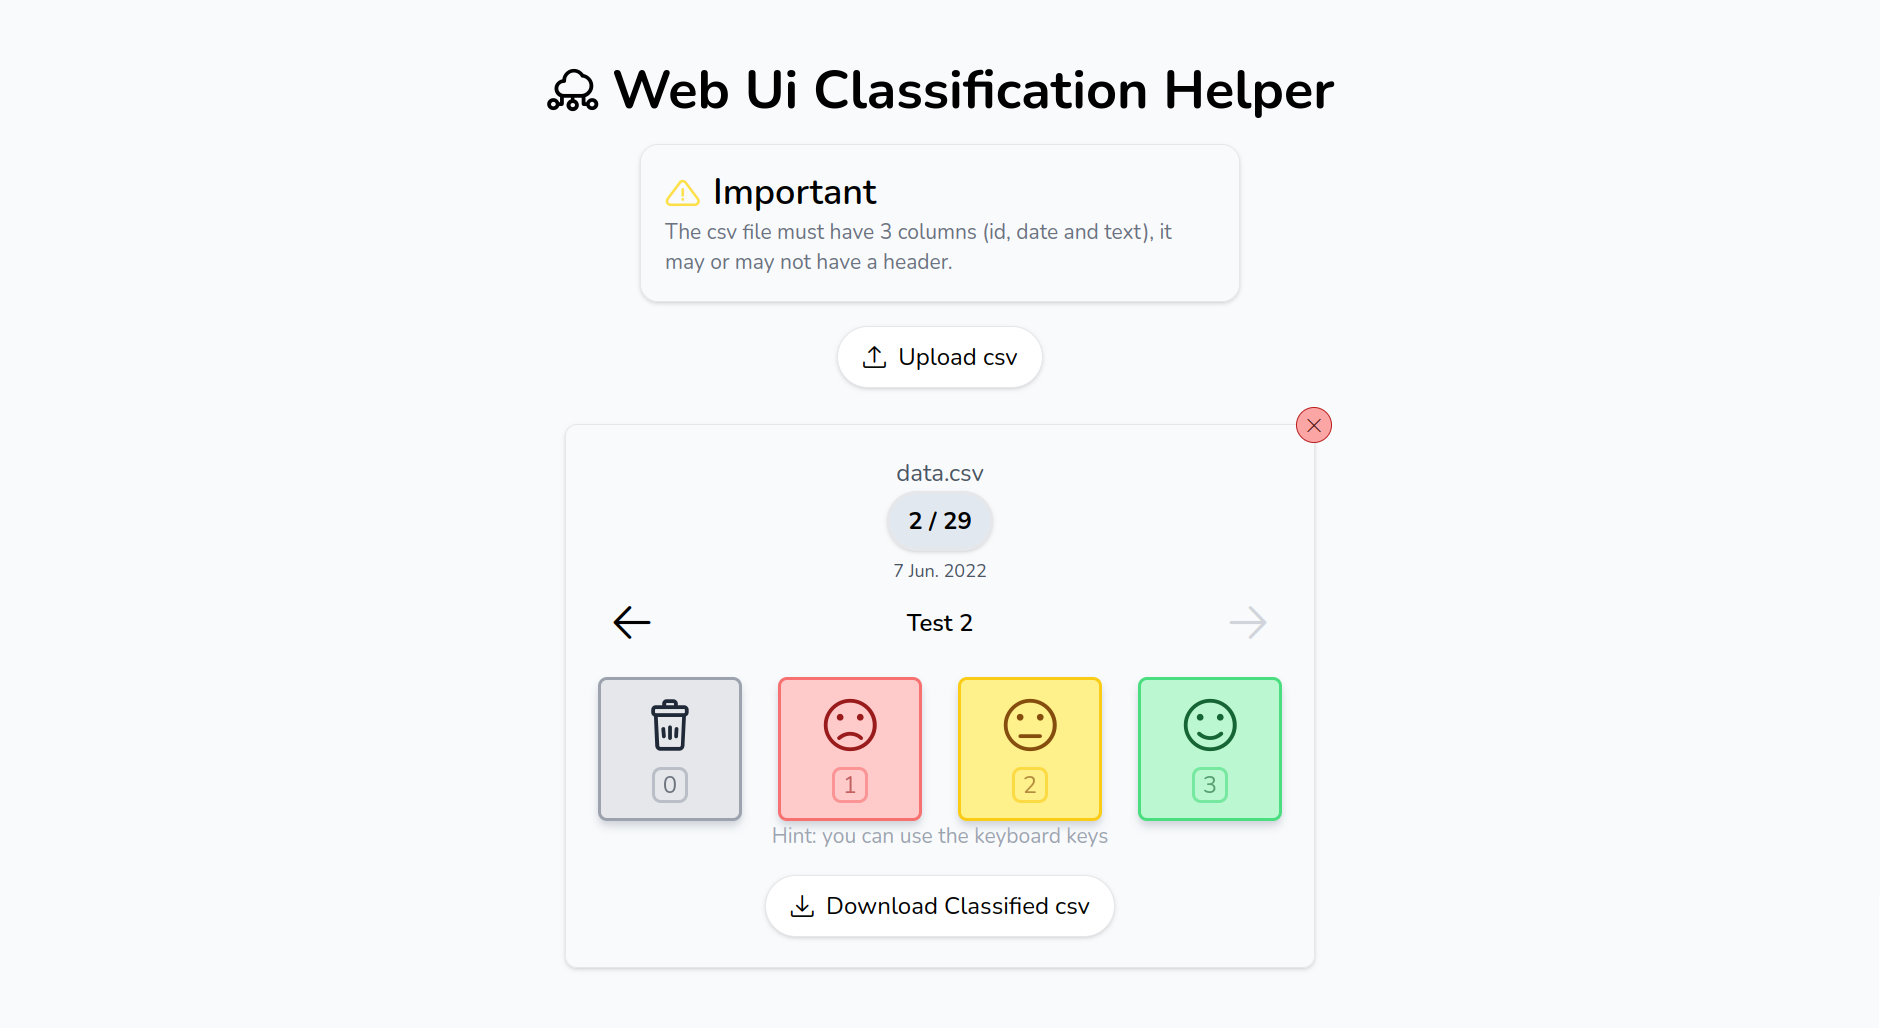
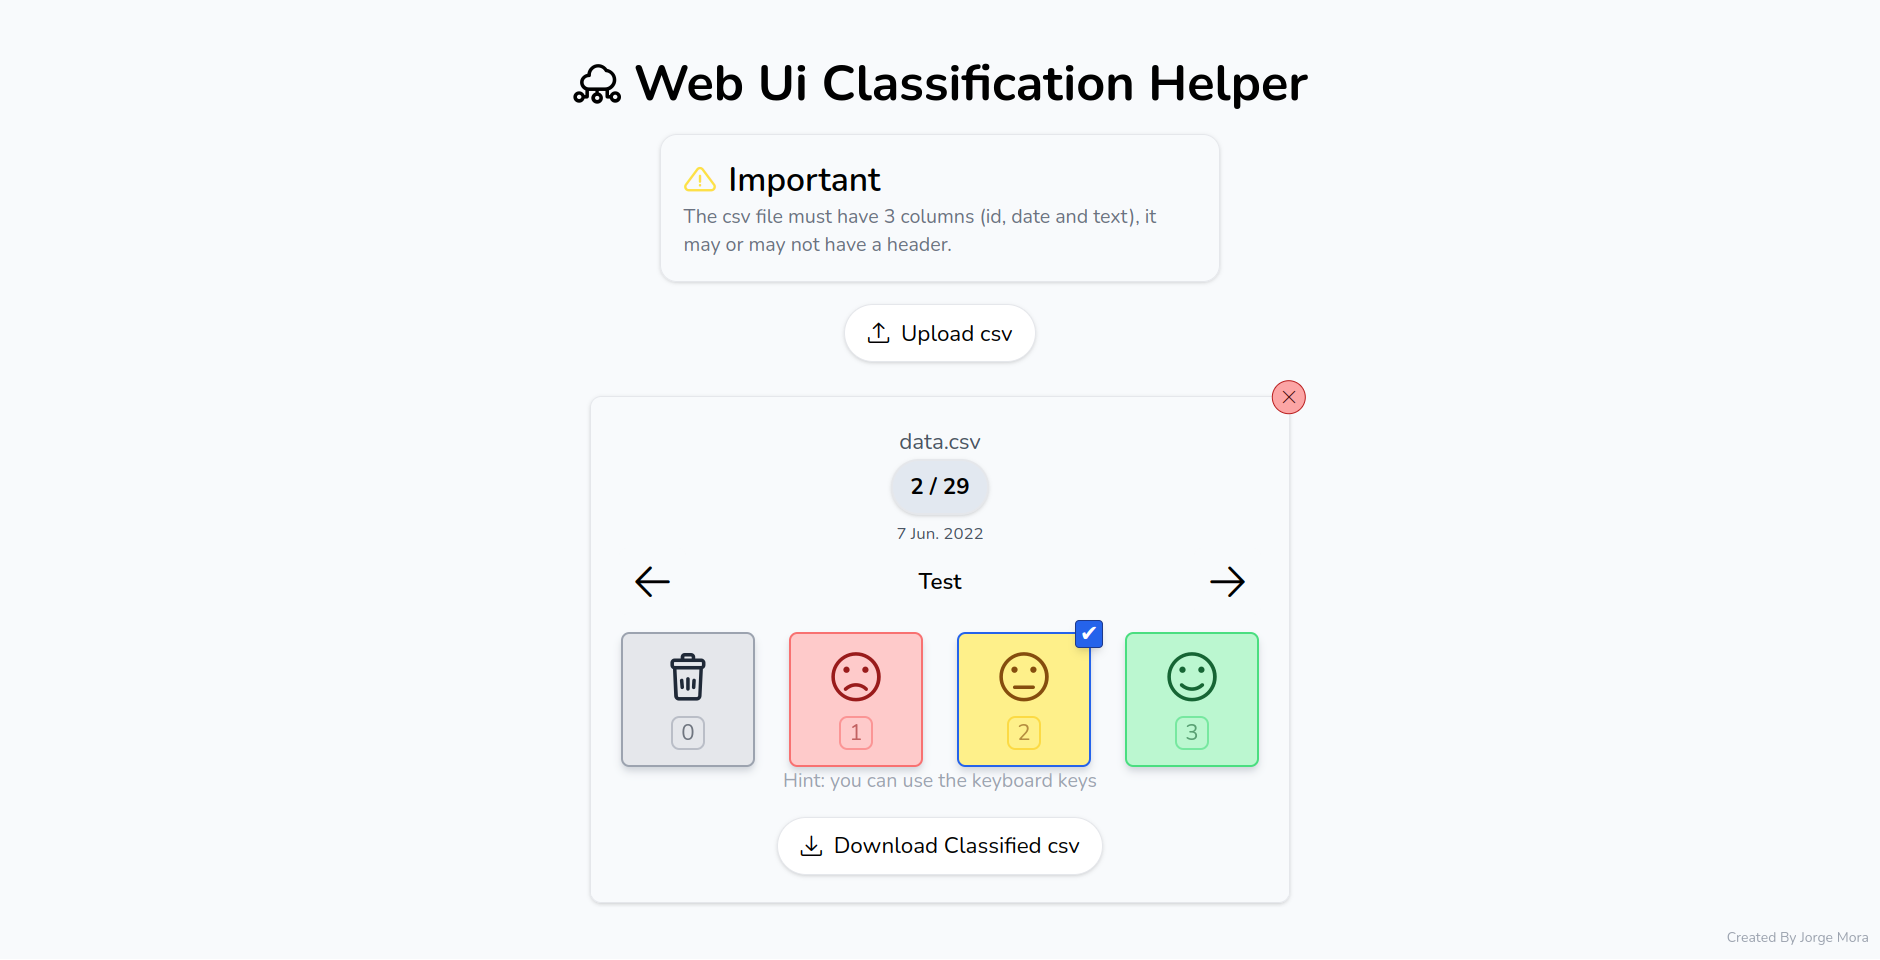
feat: :sparkles: Credits
Add a p tag with the credits of the author

diff --git a/index.html b/index.html
@@ -105,6 +105,9 @@
                 Download Classified csv
             </a>
         </div>
+
+        <!-- Credit -->
+        <p class="fixed bottom-0 m-2 text-[10px] text-gray-400 end-0">Created By Jorge Mora</p>
     </body>
 </html>
 
